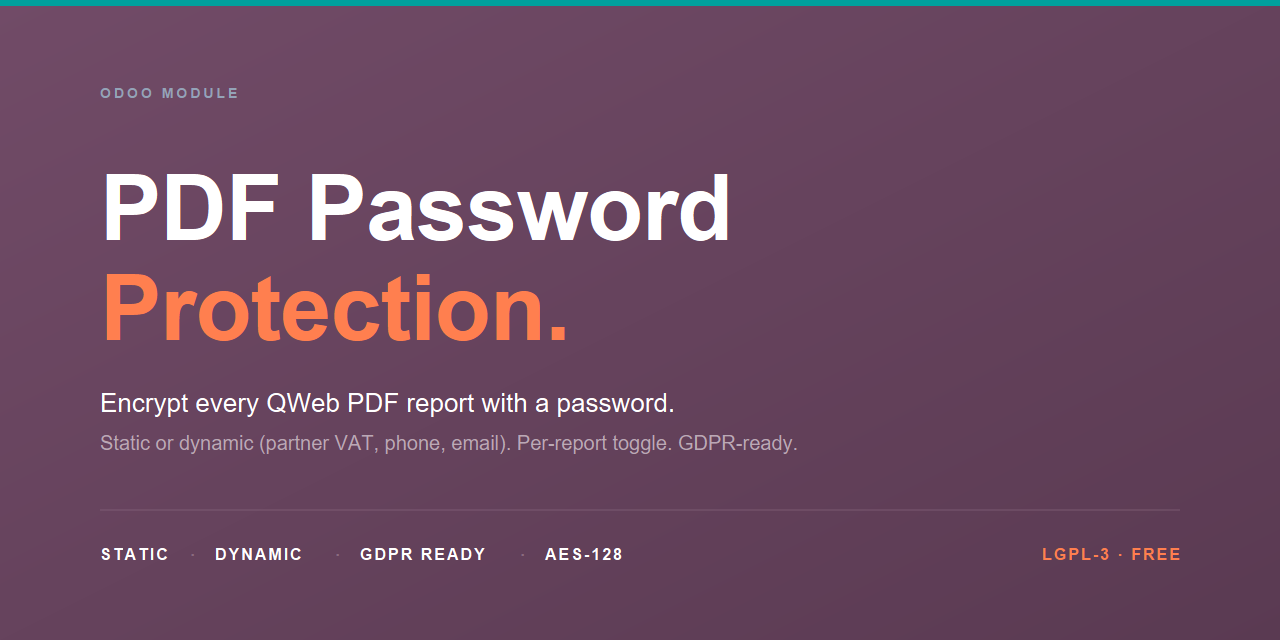
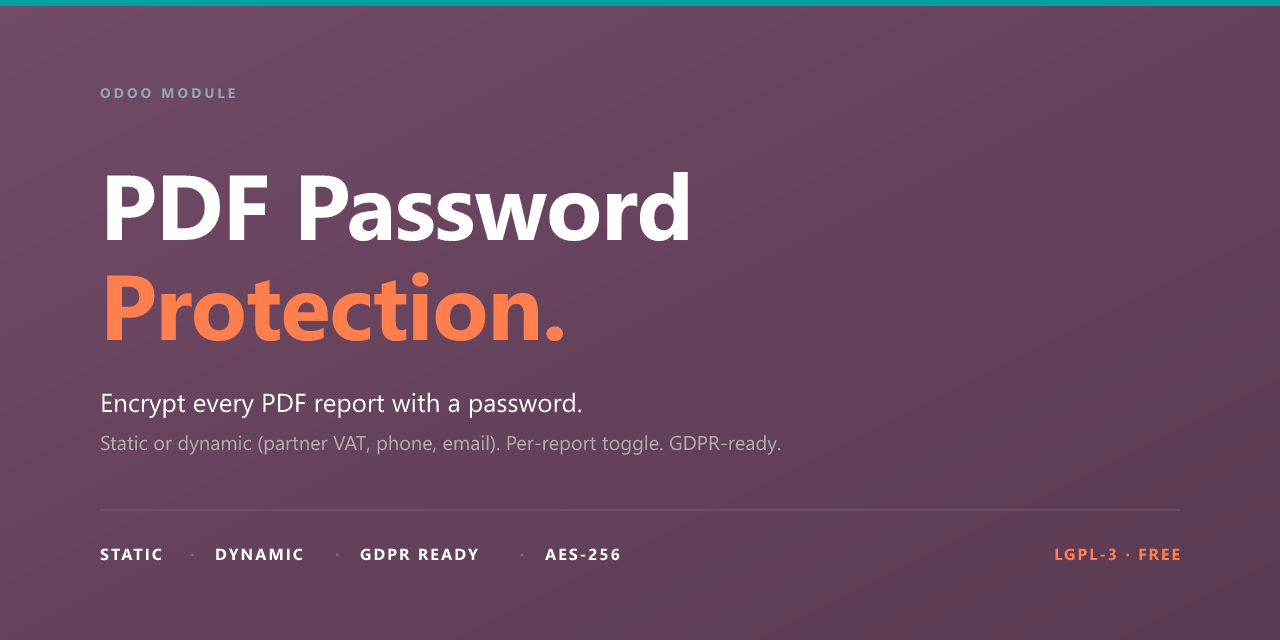
docs(store): first screenshots for both modules, plus a listing page for the bridge
The listing had no screenshots at all. Files under static/description/ are
not auto-discovered by the App Store - they only appear if index.html
references them - and index.html referenced none. Four are added, captured
from a running Odoo 19 database with real seeded customers:

* the protection settings on the invoice report;
* the four password sources;
* two customers selected for one print job, refused with the explanation;
* the delivered document asking for its password in a PDF reader.

The companion module gets its own listing page, banner, flags and two
screenshots - the Send dialog, and the sent invoice that Odoo's own preview
will not open without the password - so it can stand on its own rather than
existing only as a folder in this repository.

The banner advertised AES-128, which the module never produced: it emitted
RC4-128 before this release and AES-256 after it. Re-rendered.

Buyer-facing copy on the description page no longer names internal methods
or Python packages where a plain description of the behaviour does the job;
the one remaining package name is the install command an administrator
actually needs to enable AES.

diff --git a/no_pdf_password_protection_account/static/description/index.html b/no_pdf_password_protection_account/static/description/index.html
@@ -1,0 +1,149 @@
+<section style="max-width: 896px; margin: 0 auto;">
+
+    <!-- HERO -->
+    <div style="background-color: #714B67; color: #FFFFFF; padding: 60px 20px; text-align: center; border-radius: 0 0 8px 8px;">
+        <h1 style="font-size: 42px; font-weight: 700; color: #FFFFFF; margin: 0 0 8px;">PDF Password Protection for Invoices</h1>
+        <p style="font-size: 20px; color: #FFFFFF; margin: 0 0 20px;">The invoice you email is protected too - each one with its own customer's password</p>
+        <span style="display: inline-block; background-color: #5A3A52; border: 1px solid #8A6A80; border-radius: 20px; padding: 5px 16px; font-size: 14px; color: #FFFFFF; margin: 0 4px;">Odoo 19</span>
+        <span style="display: inline-block; background-color: #00A09D; border-radius: 20px; padding: 5px 16px; font-size: 14px; color: #FFFFFF; margin: 0 4px;">FREE</span>
+        <span style="display: inline-block; background-color: #FF7F4F; border-radius: 20px; padding: 5px 16px; font-size: 14px; color: #1A1A1A; margin: 0 4px;">For Accounting</span>
+        <span style="display: inline-block; background-color: #2E86AB; border-radius: 20px; padding: 5px 16px; font-size: 14px; color: #FFFFFF; margin: 0 4px;">9 Languages</span>
+    </div>
+
+    <!-- THE GAP -->
+    <div class="container py-5" style="text-align: center;">
+        <h2 style="color: #714B67; font-size: 28px; font-weight: 700; margin-bottom: 8px;">The Gap This Closes</h2>
+        <p style="color: #475569; font-size: 16px; margin-bottom: 28px;">Odoo produces the invoice it emails by a different route than the one the Print button uses.</p>
+        <div class="row">
+            <div class="col-md-6 col-12 mb-3">
+                <div style="background-color: #F8D7DA; border-radius: 8px; padding: 22px;">
+                    <div style="font-size: 48px; margin-bottom: 8px;">&#128275;</div>
+                    <strong style="color: #721C24;">Without this module</strong>
+                    <p style="font-size: 14px; color: #721C24; margin: 8px 0 0;">You switch password protection on for the invoice report. Printing gives you a protected file. Send &amp; Print quietly sends your customer an unprotected one - the exact copy you most wanted covered.</p>
+                </div>
+            </div>
+            <div class="col-md-6 col-12 mb-3">
+                <div style="background-color: #D4EDDA; border-radius: 8px; padding: 22px;">
+                    <div style="font-size: 48px; margin-bottom: 8px;">&#128274;</div>
+                    <strong style="color: #155724;">With this module</strong>
+                    <p style="font-size: 14px; color: #155724; margin: 8px 0 0;">Both routes deliver the same protected document. Because invoices are handled one at a time, every customer's copy is locked with that customer's own password.</p>
+                </div>
+            </div>
+        </div>
+    </div>
+
+    <!-- SCREENSHOTS -->
+    <div class="container py-5">
+        <h2 style="color: #714B67; font-size: 28px; font-weight: 700; margin-bottom: 8px; text-align: center;">See It In Odoo</h2>
+        <p style="color: #475569; font-size: 16px; margin-bottom: 32px; text-align: center;">Real screens from a running Odoo 19 database.</p>
+        <img src="screenshots/screenshot_1.png" alt="Sending a customer invoice by email from Odoo" style="width: 100%; max-width: 880px; display: block; margin: 0 auto; border: 1px solid #E8DDE5; border-radius: 8px;">
+        <p style="color: #475569; font-size: 14px; margin: 10px 0 34px; text-align: center;">Send the invoice the way you always have. There is no extra step and no new button to learn.</p>
+        <img src="screenshots/screenshot_2.png" alt="The sent invoice asking for a password when previewed" style="width: 100%; max-width: 880px; display: block; margin: 0 auto; border: 1px solid #E8DDE5; border-radius: 8px;">
+        <p style="color: #475569; font-size: 14px; margin: 10px 0 0; text-align: center;">The document that went out is genuinely locked &mdash; even Odoo's own preview asks for the password before it will show a single line.</p>
+    </div>
+
+    <!-- WHAT YOU GET -->
+    <div style="background-color: #F8F4F7; padding: 44px 20px;">
+        <div class="container">
+            <h2 style="color: #714B67; font-size: 28px; font-weight: 700; margin-bottom: 28px; text-align: center;">What You Get</h2>
+            <div class="row">
+                <div class="col-md-4 col-12 mb-3" style="text-align: center;">
+                    <div style="font-size: 28px; margin-bottom: 8px;">&#9993;</div>
+                    <strong style="font-size: 15px;">Emailed invoices covered</strong>
+                    <p style="font-size: 13px; color: #475569; margin-top: 8px;">Send &amp; Print, the scheduled send, and the proforma preview all deliver a protected document.</p>
+                </div>
+                <div class="col-md-4 col-12 mb-3" style="text-align: center;">
+                    <div style="font-size: 28px; margin-bottom: 8px;">&#128100;</div>
+                    <strong style="font-size: 15px;">A password per customer</strong>
+                    <p style="font-size: 13px; color: #475569; margin-top: 8px;">Invoices are protected one at a time, so each customer's copy uses their own VAT number, phone or email.</p>
+                </div>
+                <div class="col-md-4 col-12 mb-3" style="text-align: center;">
+                    <div style="font-size: 28px; margin-bottom: 8px;">&#9889;</div>
+                    <strong style="font-size: 15px;">Nothing to configure</strong>
+                    <p style="font-size: 13px; color: #475569; margin-top: 8px;">It installs itself alongside PDF Password Protection and follows the settings already on your invoice report.</p>
+                </div>
+            </div>
+        </div>
+    </div>
+
+    <!-- REQUIREMENTS -->
+    <div class="container py-5">
+        <h2 style="color: #714B67; font-size: 28px; font-weight: 700; margin-bottom: 16px; text-align: center;">Requirements</h2>
+        <p style="color: #475569; font-size: 16px; text-align: center; margin-bottom: 0;">Odoo Invoicing or Accounting, plus the free <strong>PDF Password Protection</strong> module, which is where you choose the password and the encryption strength. Install that one first and this add-on comes along with it.</p>
+    </div>
+
+    <!-- LANGUAGES -->
+    <div style="background-color: #F8F4F7; padding: 44px 20px;">
+        <div class="container">
+            <h2 style="color: #714B67; font-size: 28px; font-weight: 700; margin-bottom: 24px; text-align: center;">Available in 9 Languages</h2>
+            <div class="row" style="text-align: center;">
+                <div class="col-4" style="margin-bottom: 16px;">
+                    <img width="32" height="22" alt="English" src="flags/us.png" style="display: block; margin: 0 auto 6px; border-radius: 2px;">
+                    <span style="font-size: 13px; color: #475569;">English</span>
+                </div>
+                <div class="col-4" style="margin-bottom: 16px;">
+                    <img width="32" height="22" alt="French" src="flags/fr.png" style="display: block; margin: 0 auto 6px; border-radius: 2px;">
+                    <span style="font-size: 13px; color: #475569;">Fran&ccedil;ais</span>
+                </div>
+                <div class="col-4" style="margin-bottom: 16px;">
+                    <img width="32" height="22" alt="Spanish" src="flags/es.png" style="display: block; margin: 0 auto 6px; border-radius: 2px;">
+                    <span style="font-size: 13px; color: #475569;">Espa&ntilde;ol</span>
+                </div>
+                <div class="col-4" style="margin-bottom: 16px;">
+                    <img width="32" height="22" alt="German" src="flags/de.png" style="display: block; margin: 0 auto 6px; border-radius: 2px;">
+                    <span style="font-size: 13px; color: #475569;">Deutsch</span>
+                </div>
+                <div class="col-4" style="margin-bottom: 16px;">
+                    <img width="32" height="22" alt="Dutch" src="flags/nl.png" style="display: block; margin: 0 auto 6px; border-radius: 2px;">
+                    <span style="font-size: 13px; color: #475569;">Nederlands</span>
+                </div>
+                <div class="col-4" style="margin-bottom: 16px;">
+                    <img width="32" height="22" alt="Portuguese" src="flags/br.png" style="display: block; margin: 0 auto 6px; border-radius: 2px;">
+                    <span style="font-size: 13px; color: #475569;">Portugu&ecirc;s (BR)</span>
+                </div>
+                <div class="col-4" style="margin-bottom: 16px;">
+                    <img width="32" height="22" alt="Italian" src="flags/it.png" style="display: block; margin: 0 auto 6px; border-radius: 2px;">
+                    <span style="font-size: 13px; color: #475569;">Italiano</span>
+                </div>
+                <div class="col-4" style="margin-bottom: 16px;">
+                    <img width="32" height="22" alt="Chinese" src="flags/cn.png" style="display: block; margin: 0 auto 6px; border-radius: 2px;">
+                    <span style="font-size: 13px; color: #475569;">&#31616;&#20307;&#20013;&#25991;</span>
+                </div>
+                <div class="col-4" style="margin-bottom: 16px;">
+                    <img width="32" height="22" alt="Arabic" src="flags/ar.png" style="display: block; margin: 0 auto 6px; border-radius: 2px;">
+                    <span style="font-size: 13px; color: #475569;">&#1575;&#1604;&#1593;&#1585;&#1576;&#1610;&#1577;</span>
+                </div>
+            </div>
+        </div>
+    </div>
+
+    <!-- HONEST SCOPE -->
+    <div class="container py-5">
+        <h2 style="color: #714B67; font-size: 28px; font-weight: 700; margin-bottom: 24px; text-align: center;">What It Does Not Do</h2>
+        <div class="row">
+            <div class="col-md-6 col-12 mb-3">
+                <div style="background-color: #FFFFFF; border: 1px solid #E8DDE5; border-radius: 8px; padding: 16px 20px;">
+                    <strong style="color: #DC3545;">&#10007;</strong>&nbsp;
+                    <strong>It is not the settings screen</strong>
+                    <p style="font-size: 13px; color: #475569; margin: 6px 0 0;">Whether protection is on, which password is used and how strong the encryption is are all decided in PDF Password Protection. This add-on only makes sure the emailed invoice obeys them.</p>
+                </div>
+            </div>
+            <div class="col-md-6 col-12 mb-3">
+                <div style="background-color: #FFF3CD; border: 1px solid #FFEEBA; border-radius: 8px; padding: 16px 20px;">
+                    <strong style="color: #856404;">&#9888;</strong>&nbsp;
+                    <strong>Structured e-invoices are left readable</strong>
+                    <p style="font-size: 13px; color: #856404; margin: 6px 0 0;">Where Odoo produces a legally structured e-invoice, locking it would break the format and stop your customer's system from reading it. Those are sent unprotected on purpose, with a note on the invoice explaining why.</p>
+                </div>
+            </div>
+        </div>
+    </div>
+
+    <!-- FOOTER -->
+    <div style="text-align: center; padding: 36px 0; font-size: 14px; color: #94A3B8;">
+        <p style="margin: 0;">
+            <strong style="color: #714B67;">PDF Password Protection for Invoices</strong> - Free, open source, Odoo 19<br/>
+            &copy; <strong style="color: #714B67;">Naim OUDAYET</strong> - LGPL-3 License
+        </p>
+    </div>
+
+</section>

diff --git a/no_pdf_password_protection/static/description/index.html b/no_pdf_password_protection/static/description/index.html
@@ -137,18 +137,31 @@
         </div>
     </div>
 
+    <!-- SCREENSHOTS -->
+    <div class="container py-5">
+        <h2 style="color: #714B67; font-size: 28px; font-weight: 700; margin-bottom: 8px; text-align: center;">See It In Odoo</h2>
+        <p style="color: #475569; font-size: 16px; margin-bottom: 32px; text-align: center;">Real screens from a running Odoo 19 database.</p>
+        <img src="screenshots/screenshot_1.png" alt="Password protection settings on an invoice report" style="width: 100%; max-width: 880px; display: block; margin: 0 auto; border: 1px solid #E8DDE5; border-radius: 8px;">
+        <p style="color: #475569; font-size: 14px; margin: 10px 0 34px; text-align: center;">Turn it on per report, pick the cipher, pick where the password comes from. Nothing else in Odoo changes.</p>
+        <img src="screenshots/screenshot_2.png" alt="The four password sources" style="width: 100%; max-width: 880px; display: block; margin: 0 auto; border: 1px solid #E8DDE5; border-radius: 8px;">
+        <p style="color: #475569; font-size: 14px; margin: 10px 0 34px; text-align: center;">One fixed password for everyone, or a different one per recipient taken from their VAT number, phone or email address &mdash; something they already know.</p>
+        <img src="screenshots/screenshot_3.png" alt="Two customers selected for one print job, refused" style="width: 100%; max-width: 880px; display: block; margin: 0 auto; border: 1px solid #E8DDE5; border-radius: 8px;">
+        <p style="color: #475569; font-size: 14px; margin: 10px 0 34px; text-align: center;">A merged file can carry only one password. Rather than hand one customer a file containing another customer's invoice, the print is stopped and explained.</p>
+        <img src="screenshots/screenshot_4.png" alt="The recipient opening the document" style="width: 100%; max-width: 880px; display: block; margin: 0 auto; border: 1px solid #E8DDE5; border-radius: 8px;">
+        <p style="color: #475569; font-size: 14px; margin: 10px 0 34px; text-align: center;">The delivered file asks for the password before it shows anything &mdash; in any modern PDF reader, with no software for your customer to install.</p>
+    </div>
     <!-- INSTALLATION -->
     <div class="container py-5">
         <h2 style="color: #714B67; font-size: 28px; font-weight: 700; margin-bottom: 16px; text-align: center;">Installation</h2>
-        <p style="color: #475569; font-size: 16px; margin-bottom: 32px; text-align: center;">One step in Odoo. The PDF library (PyPDF2 or pypdf) ships with Odoo by default - the module picks up whichever is installed, no extra setup needed.</p>
+        <p style="color: #475569; font-size: 16px; margin-bottom: 32px; text-align: center;">One step in Odoo. The PDF engine ships with Odoo by default, so there is nothing extra to install.</p>
 
         <div class="row">
             <div class="col-md-6 col-12 mb-4">
                 <div style="background-color: #FFFFFF; border: 1px solid #E8DDE5; border-radius: 10px; padding: 24px; height: 100%;">
                     <p style="font-size: 13px; font-weight: 600; color: #94A3B8; margin: 0 0 8px; text-transform: uppercase;">Step 1 - dependency</p>
                     <strong style="color: #714B67;">Bundled with Odoo</strong>
-                    <p style="font-size: 14px; color: #475569; margin-top: 12px;">Odoo 16-19 already ship a PDF library: <em>PyPDF2</em> on Python &lt;= 3.12, or <em>pypdf</em> on Python &gt;= 3.13. The module uses whichever is available - no manual <em>pip install</em> needed in the typical case.</p>
-                    <p style="font-size: 13px; color: #94A3B8; margin-top: 8px;">If you see an <em>ImportError</em> in your logs, your Python environment is non-standard; run <em>pip install pypdf</em> on the Odoo server.</p>
+                    <p style="font-size: 14px; color: #475569; margin-top: 12px;">Odoo 16 to 19 already include everything this module needs. The module uses whichever is available - no manual <em>pip install</em> needed in the typical case.</p>
+                    <p style="font-size: 13px; color: #94A3B8; margin-top: 8px;">On an unusual Python setup where it is missing, your administrator can add it in one command: <em>pip install pypdf</em>. This is also how you switch a server from the legacy encryption strength to AES.</p>
                 </div>
             </div>
             <div class="col-md-6 col-12 mb-4">
@@ -164,7 +177,7 @@
     <!-- WORKS WITH -->
     <div style="background-color: #F8F5F7; padding: 48px 32px; border-radius: 8px;">
         <div class="container" style="text-align: center;">
-            <h2 style="color: #714B67; font-size: 28px; font-weight: 700; margin-bottom: 8px;">Works With Every QWeb PDF Report</h2>
+            <h2 style="color: #714B67; font-size: 28px; font-weight: 700; margin-bottom: 8px;">Works With Every PDF Report</h2>
             <p style="color: #475569; font-size: 15px; margin-bottom: 32px;">Invoices, quotations, delivery slips, payslips, and any custom report you've built yourself.</p>
 
             <div class="row">
@@ -326,7 +339,7 @@
                 <div style="background-color: #FFF3CD; border: 1px solid #FFEEBA; border-radius: 8px; padding: 16px 20px;">
                     <strong style="color: #856404;">&#9888;</strong>&nbsp;
                     <strong>PDF library required (bundled with Odoo)</strong>
-                    <p style="font-size: 13px; color: #856404; margin: 6px 0 0;">Odoo already ships one of the two libraries this module uses, so there is nothing to install. AES needs the newer <em>pypdf</em>; on a server that only has the older PyPDF2, the module keeps working at RC4-128 and writes a warning to the log telling you how to enable AES.</p>
+                    <p style="font-size: 13px; color: #856404; margin: 6px 0 0;">Odoo already ships what this module needs, so there is nothing to install. The strongest encryption needs an up-to-date PDF engine; on an older server the module keeps working at the legacy strength and says so plainly on the report settings screen.</p>
                 </div>
             </div>
         </div>
@@ -365,7 +378,7 @@
             </div>
             <div style="border-bottom: 1px solid #E8DDE5; padding: 16px 0;">
                 <strong style="color: #714B67;">Will this break when Odoo updates?</strong>
-                <p style="color: #475569; font-size: 14px; margin: 8px 0 0;">The module overrides <em>_render_qweb_pdf</em>, which is stable Odoo API. Every version branch (16.0 / 17.0 / 18.0 / 19.0) ships tests that verify the integration end-to-end on that specific version.</p>
+                <p style="color: #475569; font-size: 14px; margin: 8px 0 0;">The module hooks into the standard Odoo printing path, which has been stable for years. Every version branch (16.0 / 17.0 / 18.0 / 19.0) ships tests that verify the integration end-to-end on that specific version.</p>
             </div>
             <div style="padding: 16px 0;">
                 <strong style="color: #714B67;">Does it work on Odoo.sh / Odoo Online?</strong>
@@ -393,7 +406,7 @@
                 </div>
                 <div class="row" style="border-bottom: 1px solid #E8DDE5; padding: 10px 0;">
                     <div class="col-md-5 col-12" style="text-align: left;"><strong style="color: #714B67;">Python dep</strong></div>
-                    <div class="col-md-7 col-12" style="text-align: left;">Bundled with Odoo (PyPDF2 / pypdf)</div>
+                    <div class="col-md-7 col-12" style="text-align: left;">None - uses the PDF engine already bundled with Odoo</div>
                 </div>
                 <div class="row" style="border-bottom: 1px solid #E8DDE5; padding: 10px 0;">
                     <div class="col-md-5 col-12" style="text-align: left;"><strong style="color: #714B67;">Languages</strong></div>
@@ -404,8 +417,8 @@
                     <div class="col-md-7 col-12" style="text-align: left;">LGPL-3 (Free / Open Source)</div>
                 </div>
                 <div class="row" style="border-bottom: 1px solid #E8DDE5; padding: 10px 0;">
-                    <div class="col-md-5 col-12" style="text-align: left;"><strong style="color: #714B67;">Mechanism</strong></div>
-                    <div class="col-md-7 col-12" style="text-align: left;">Overrides <em>_render_qweb_pdf</em> on <em>ir.actions.report</em></div>
+                    <div class="col-md-5 col-12" style="text-align: left;"><strong style="color: #714B67;">Applies to</strong></div>
+                    <div class="col-md-7 col-12" style="text-align: left;">Any PDF report in Odoo, configured one report at a time</div>
                 </div>
                 <div class="row" style="padding: 10px 0;">
                     <div class="col-md-5 col-12" style="text-align: left;"><strong style="color: #714B67;">Test coverage</strong></div>

diff --git a/no_pdf_password_protection_account/__manifest__.py b/no_pdf_password_protection_account/__manifest__.py
@@ -20,6 +20,7 @@
     "installable": True,
     "auto_install": True,
     "depends": ["no_pdf_password_protection", "account"],
+    "images": ["static/description/banner.png"],
     "price": 0,
     "currency": "USD",
     "support": "contact@oudayet.com",

diff --git a/CHANGELOG.md b/CHANGELOG.md
@@ -37,6 +37,13 @@ Versions use Odoo's `<odoo_version>.<module_major>.<module_minor>.<module_patch>
 - The test suite imports `pypdf` before `PyPDF2`, matching the module. PyPDF2 2.x cannot verify a `/V 5` encryption dictionary, so reading AES-256 output back with it failed on the library, not the module.
 - Translations regenerated for all 9 languages via `odoo i18n export`. The `model:ir.module.module,summary|shortdesc|description` entries carried by earlier `.po` files were dropped: `module_meta_information` no longer exists anywhere in Odoo 19, so those entries translated nothing.
 
+### Storefront
+
+- **Screenshots added for the first time.** The listing had none: the App Store does not auto-discover files under `static/description/`, they must be referenced from `index.html`, and none were. Four now show the settings screen, the password sources, the refused mixed batch, and the delivered document asking for its password. The companion module gets its own two.
+- The companion module gets a full listing page and banner of its own, so it can be published or shared on its own terms rather than only as a folder in this repository.
+- **Banner corrected**: it advertised `AES-128`, which was never what the module produced (it was RC4-128, and is now AES-256).
+- Buyer-facing copy de-leaked: internal method and library names removed from the description page in favour of what the module actually does for the reader.
+
 ### Upgrade notes
 
 - **Default cipher changes on upgrade.** Reports with no explicit algorithm set (including every report configured before this release) will produce AES-256 from now on. Set **Encryption Algorithm** to *RC4-128 (legacy readers only)* on a per-report basis if you must keep serving readers older than Acrobat 9 (2008).

diff --git a/README.md b/README.md
@@ -78,6 +78,22 @@ It is marked `auto_install`, so it installs itself when you install PDF Password
 
 **After uninstalling**, PDFs that were already encrypted stay encrypted -- the module is not needed to open them, but nothing can recover a password derived from partner data that has since changed.
 
+## Screenshots
+
+| | |
+|---|---|
+| ![Password protection settings on an invoice report](no_pdf_password_protection/static/description/screenshots/screenshot_1.png) | ![The four password sources](no_pdf_password_protection/static/description/screenshots/screenshot_2.png) |
+| Turn it on per report, pick the cipher, pick where the password comes from. | Static, or a different password per recipient from their VAT number, phone or email. |
+| ![Two customers selected for one print job, refused](no_pdf_password_protection/static/description/screenshots/screenshot_3.png) | ![The recipient opening the document](no_pdf_password_protection/static/description/screenshots/screenshot_4.png) |
+| A merged file carries one password, so a mixed batch is stopped and explained. | The delivered file asks for the password in any modern PDF reader. |
+
+Companion module (`no_pdf_password_protection_account`):
+
+| | |
+|---|---|
+| ![Sending a customer invoice by email](no_pdf_password_protection_account/static/description/screenshots/screenshot_1.png) | ![The sent invoice asking for a password](no_pdf_password_protection_account/static/description/screenshots/screenshot_2.png) |
+| Send the invoice as usual - no extra step. | The document that went out is locked; even Odoo's own preview asks for the password. |
+
 ## Installation
 
 1. Place the `no_pdf_password_protection` folder in your Odoo addons directory.
